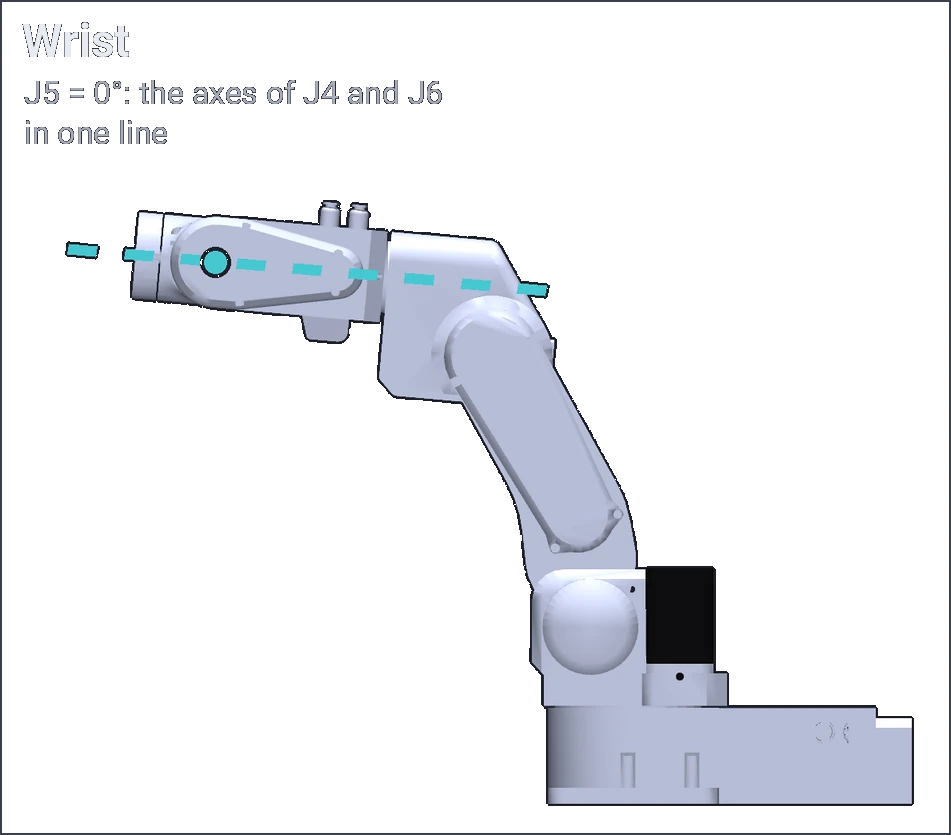
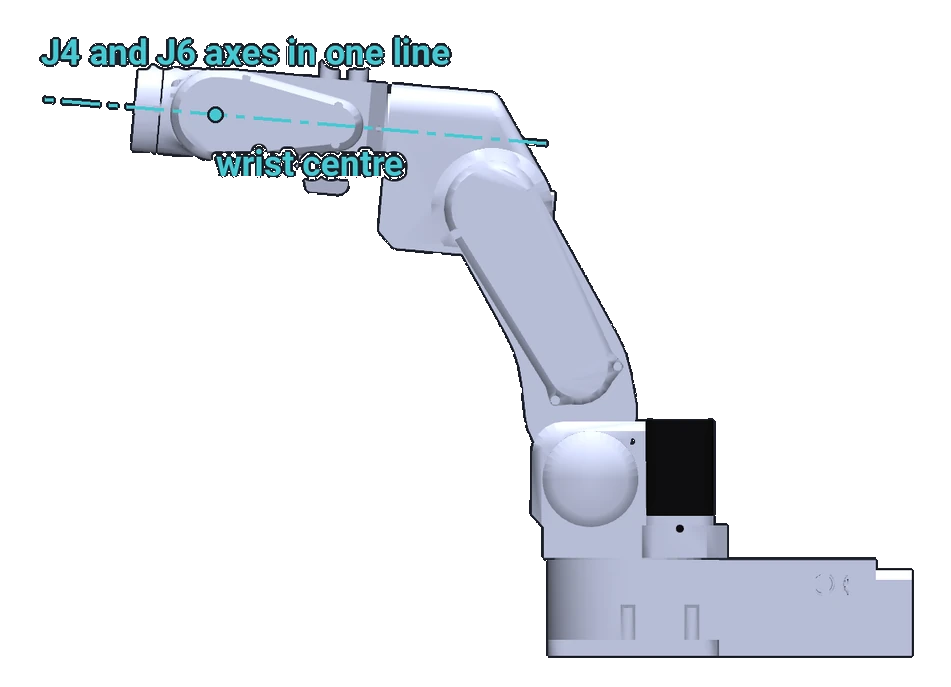
Singularities: the labelled pictures again, with thin centre lines
The owner liked the labels on the drawing but found the thick lines and dots
cartoonish: the axes are now thin dash-dot centre lines, as on technical
drawings, the elbow line is thin and solid, and the dots are small.

diff --git a/docs/theory/configurations-and-singularities.md b/docs/theory/configurations-and-singularities.md
@@ -58,11 +58,11 @@ The three singularities of a six-axis arm with a spherical wrist:
 ![The wrist singularity: joint 5 at 0°, so the axes of joints 4 and 6 lie in one line](../assets/theory/singularity_wrist_parol6.webp#only-light){ width="571" }
 ![The wrist singularity: joint 5 at 0°, so the axes of joints 4 and 6 lie in one line](../assets/theory/singularity_wrist_parol6_dark.webp#only-dark){ width="571" }
 
-![The shoulder singularity: the wrist centre on the joint 1 axis, here with joint 2 at −133.1° and joint 3 at 180°](../assets/theory/singularity_shoulder_parol6.webp#only-light){ width="291" }
-![The shoulder singularity: the wrist centre on the joint 1 axis, here with joint 2 at −133.1° and joint 3 at 180°](../assets/theory/singularity_shoulder_parol6_dark.webp#only-dark){ width="291" }
+![The shoulder singularity: the wrist centre on the joint 1 axis, here with joint 2 at −133.1° and joint 3 at 180°](../assets/theory/singularity_shoulder_parol6.webp#only-light){ width="347" }
+![The shoulder singularity: the wrist centre on the joint 1 axis, here with joint 2 at −133.1° and joint 3 at 180°](../assets/theory/singularity_shoulder_parol6_dark.webp#only-dark){ width="347" }
 
-![The elbow singularity: joint 3 at 256.2°, so joints 2 and 3 and the wrist centre lie in one line, the arm fully stretched](../assets/theory/singularity_elbow_parol6.webp#only-light){ width="438" }
-![The elbow singularity: joint 3 at 256.2°, so joints 2 and 3 and the wrist centre lie in one line, the arm fully stretched](../assets/theory/singularity_elbow_parol6_dark.webp#only-dark){ width="438" }
+![The elbow singularity: joint 3 at 256.2°, so joints 2 and 3 and the wrist centre lie in one line, the arm fully stretched](../assets/theory/singularity_elbow_parol6.webp#only-light){ width="517" }
+![The elbow singularity: joint 3 at 256.2°, so joints 2 and 3 and the wrist centre lie in one line, the arm fully stretched](../assets/theory/singularity_elbow_parol6_dark.webp#only-dark){ width="517" }
 
 The angles are the ones the software shows, from PAROL6's model. The wrist centre is where the axes of joints 4,
 5 and 6 meet. The elbow singularity is the outer edge of the workspace
